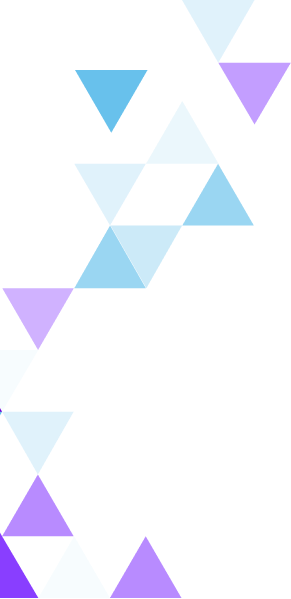
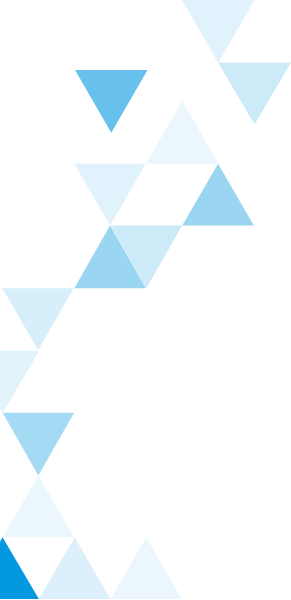
added triangle background

Changed region(s): [[0.0, 0.6611, 0.6186, 1.0], [0.7423, 0.0902, 1.0, 0.2104], [0.0, 0.4808, 0.2474, 0.601]]

diff --git a/css/skillup.css b/css/skillup.css
@@ -247,6 +247,7 @@ ul {
 
 .technology__list {
   display: flex;
+  justify-content: space-around;
   flex-wrap: wrap;
 }
 
@@ -711,6 +712,10 @@ ul {
   background-image: url('../img/skillup/icon-youtube.svg');
 }
 
+.footer__social-link--twitter {
+  background-image: url('../img/skillup/icon-twitter.svg');
+}
+
 .popup {
   position: fixed;
   padding-top: 60px;
@@ -1113,6 +1118,14 @@ ul {
     background-size: 11%, 15%;
   }
 
+  .course-for__list {
+    justify-content: space-around;
+  }
+
+  .course-for .list__item {
+    margin-right: 90px;
+  }
+
   .learning {
     padding: 35px 88px;
   }
@@ -1129,13 +1142,18 @@ ul {
 
   .certificate {
     padding: 35px 88px;
+    background-image: url('../img/skillup/triangles-certificate-left.png'), url('../img/skillup/triangles-certificate-right.png');
+    background-repeat: no-repeat;
+    background-size: 294px, 220px;
+    background-position: left bottom, right bottom;
   }
 
   .meet {
     padding: 93px 88px;
     background-image: url('../img/skillup/triangles-meet-left.png'), url('../img/skillup/triangles-meet-right.png');
     background-repeat: no-repeat;
-    background-position: 0% 100%, 95.7% 100%;
+    /* background-position: 0% 100.6%, 95.7% 100.6%; */
+    background-position: 0 0, 100% 102%;
     background-size: 20.8%, 51.7%;
   }
 
@@ -1178,10 +1196,16 @@ ul {
 
   .buy {
     padding: 35px 88px;
-    background-image: url('../img/skillup/triangles-buy-left.png'), url('../img/skillup/triangles-buy-right.png');
+    background-image: url('../img/skillup/triangles-buy-left-top.png'), 
+                      url('../img/skillup/triangles-buy-right-top.png'), 
+                      url('../img/skillup/triangles-buy-right-bottom.png'),
+                      url('../img/skillup/triangles-buy-left-bottom.png');
     background-repeat: no-repeat;
-    background-position: left bottom, right bottom;
-    background-size: 50%;
+    background-position:  0 0, 
+                          calc(100% - 190px) 0, 
+                          100% 100%, 
+                          0 100%;
+    background-size: auto;
   }
 
   .faq {
@@ -1365,6 +1389,7 @@ ul {
   .learning__wrapper {
     max-width: 1208px;
     width: 1208px;
+    margin: 0 auto;
     padding: 74px 0 0;
   }
 
@@ -1408,12 +1433,14 @@ ul {
     margin: 0 auto;
   }
 
+  .learning {
+    padding-bottom: 13px;
+  }
+
   .certificate {
     padding: 85px;
-    background-image: url('../img/skillup/triangles-certificate-left.png'), url('../img/skillup/triangles-certificate-right.png');
-    background-repeat: no-repeat;
-    background-position: 0 0, 80.5% 92.6%;
-    padding-bottom: 15px;
+    padding-top: 22px;
+    background-position: -1px 0, 80.5% 92.6%;
   }
 
   .certificate__container {
@@ -1436,6 +1463,7 @@ ul {
 
   .meet {
     padding: 35px 118px;
+    background-size: auto;
   }
 
   .meet__description {
@@ -1445,7 +1473,7 @@ ul {
   .mentor {
     background-image: url('../img/skillup/triangles-mentor-left.png'), url('../img/skillup/triangles-mentor-right.png');
     background-repeat: no-repeat;
-    background-position: 0 0, 100% 0;
+    background-position: 0 0, calc(100% + 38px) 0;
     background-size: 12%, auto;
     padding: 55px 0 123px;
   }
@@ -1471,8 +1499,16 @@ ul {
 
   .course-join {
     padding: 35px 118px;
+    background-image: url('../img/skillup/triangles-course-join-left.png'), url('../img/skillup/triangles-course-join-right.png');
+    background-repeat: no-repeat;
+    background-position: left top, right top;
   }
 
+  .course-join__wrapper {
+    max-width: 1240px;
+    margin: 0 auto;
+  }
+  
   .buy {
     background-size: auto;
   }
@@ -1535,10 +1571,13 @@ ul {
   .web-is,
   .course-for,
   .learning,
-  .meet,
   .course-join,
   .contacts {
     padding: 35px 356px;
+  }
+
+  .meet {
+    padding: 66px 356px;
   }
 
   .mentor {

diff --git a/index3.html b/index3.html
@@ -408,9 +408,9 @@
       <li class="footer__social-item">
         <a href="#" class="footer__social-link footer__social-link--youtube" target="_blank">Youtube</a>
       </li>
-      <!-- <li class="footer__social-item">
+      <li class="footer__social-item">
         <a href="#" class="footer__social-link footer__social-link--twitter" target="_blank">Twitter</a>
-      </li> -->
+      </li>
     </ul>
   </footer>
   <section class="popup visually-hidden" id='popup'>
